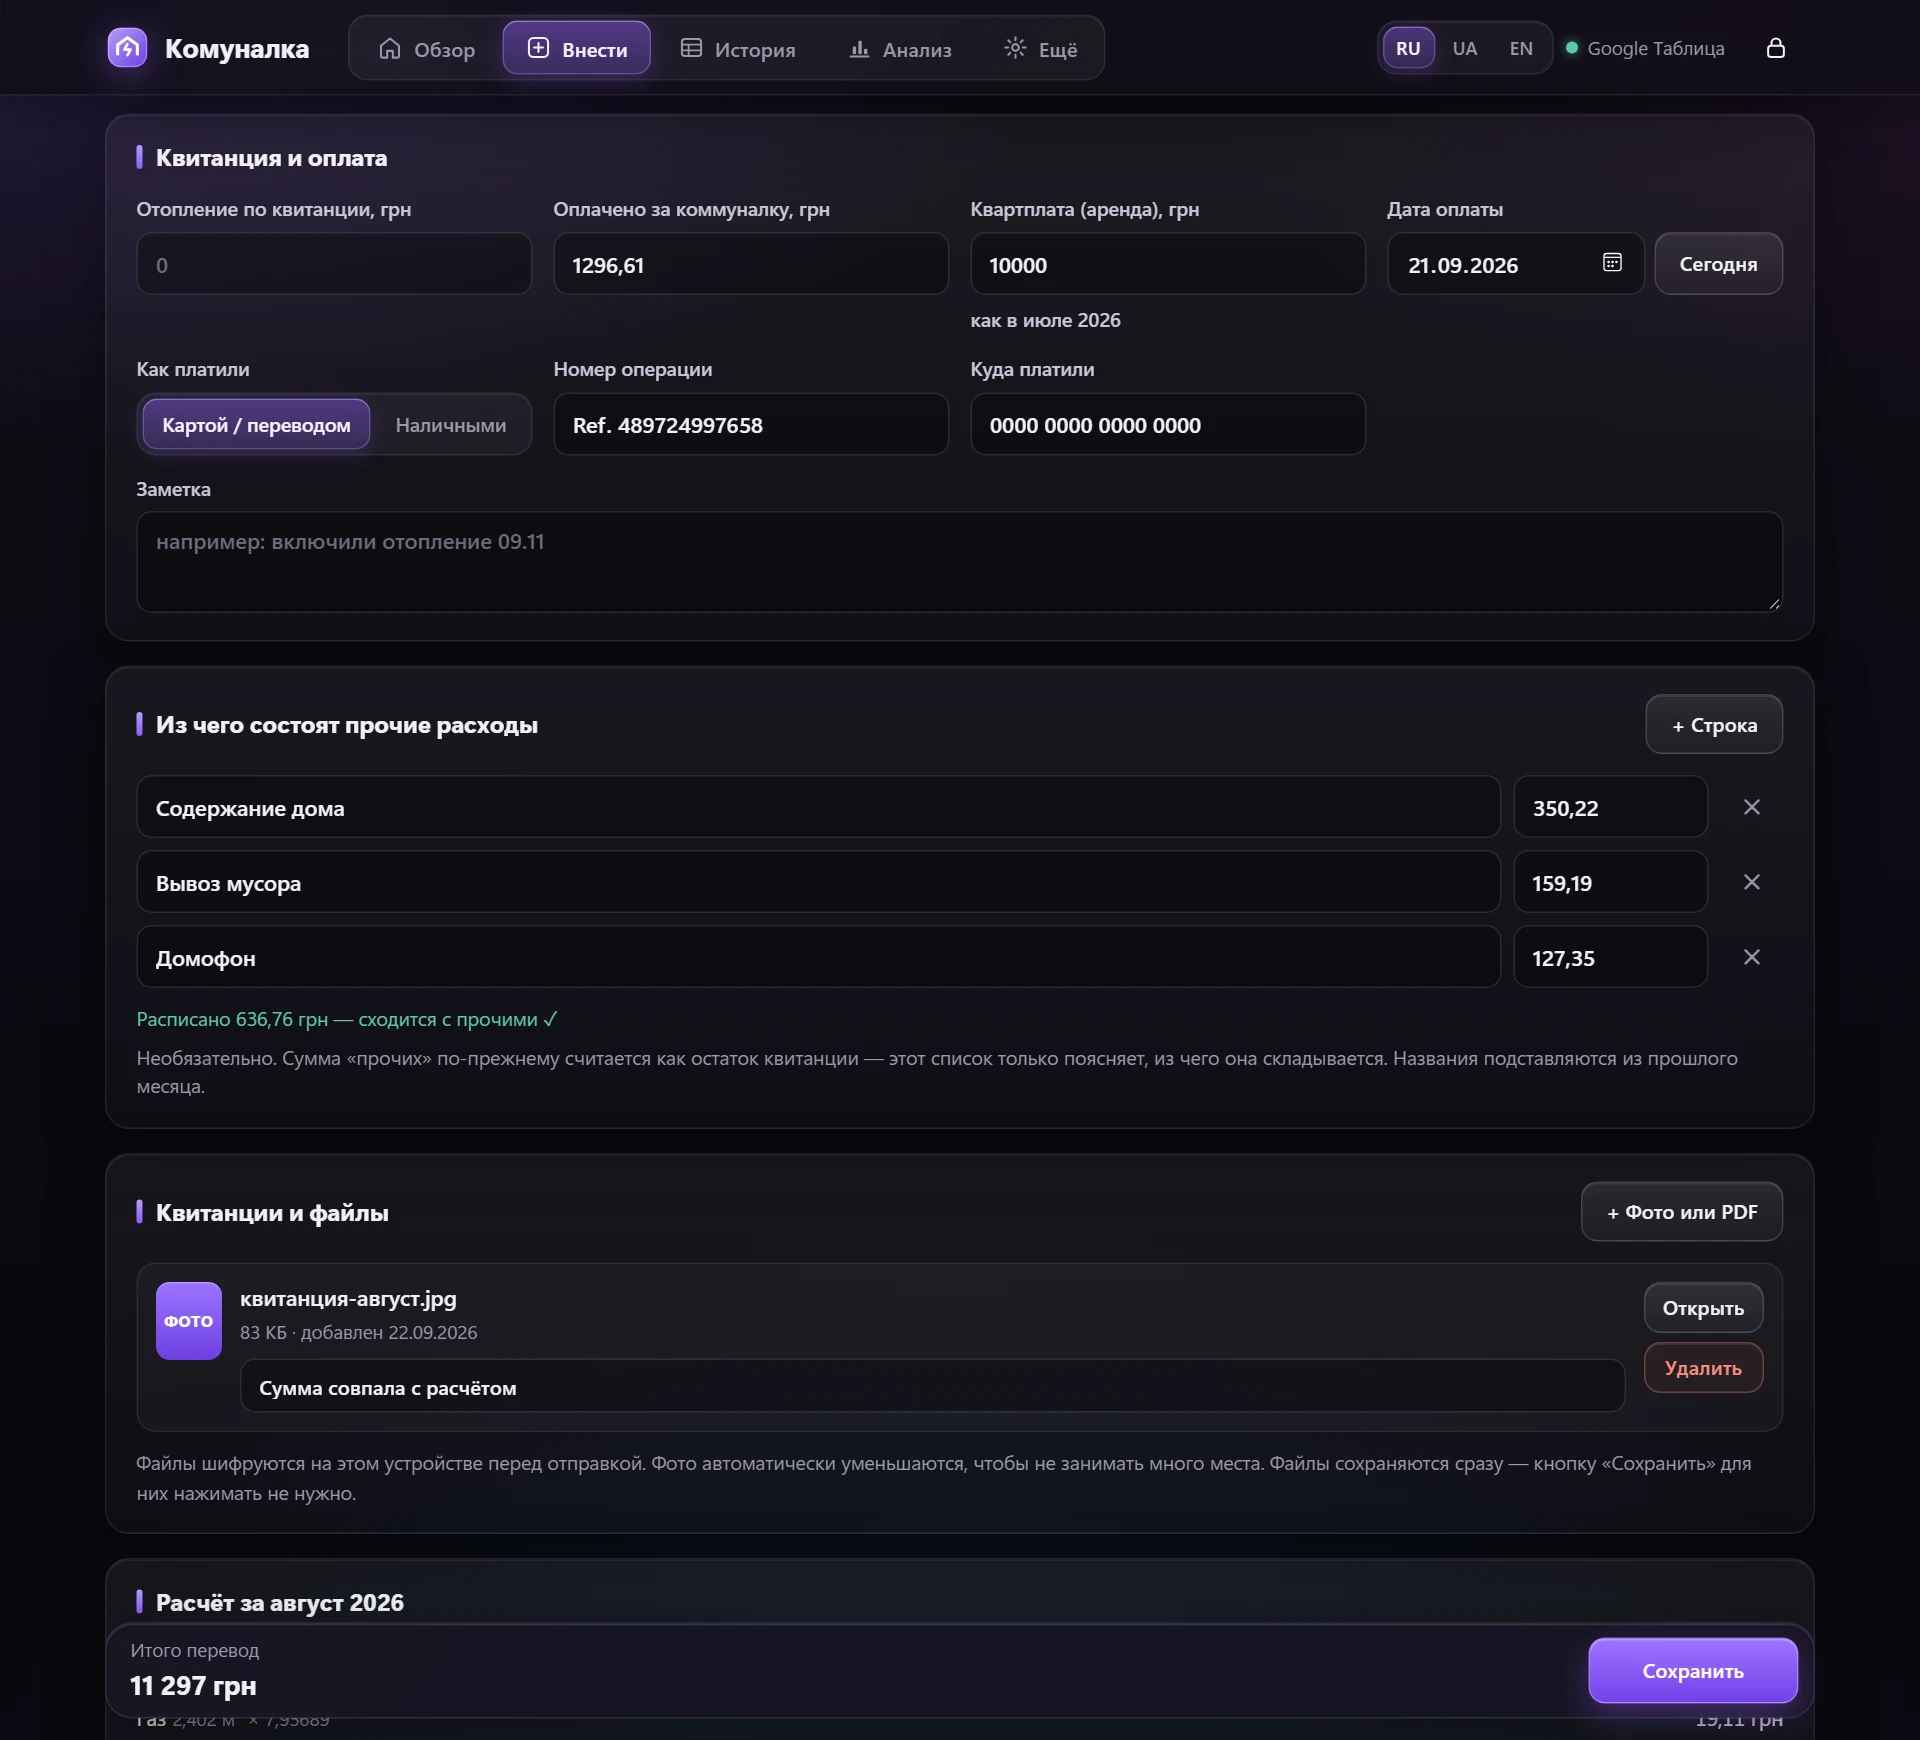
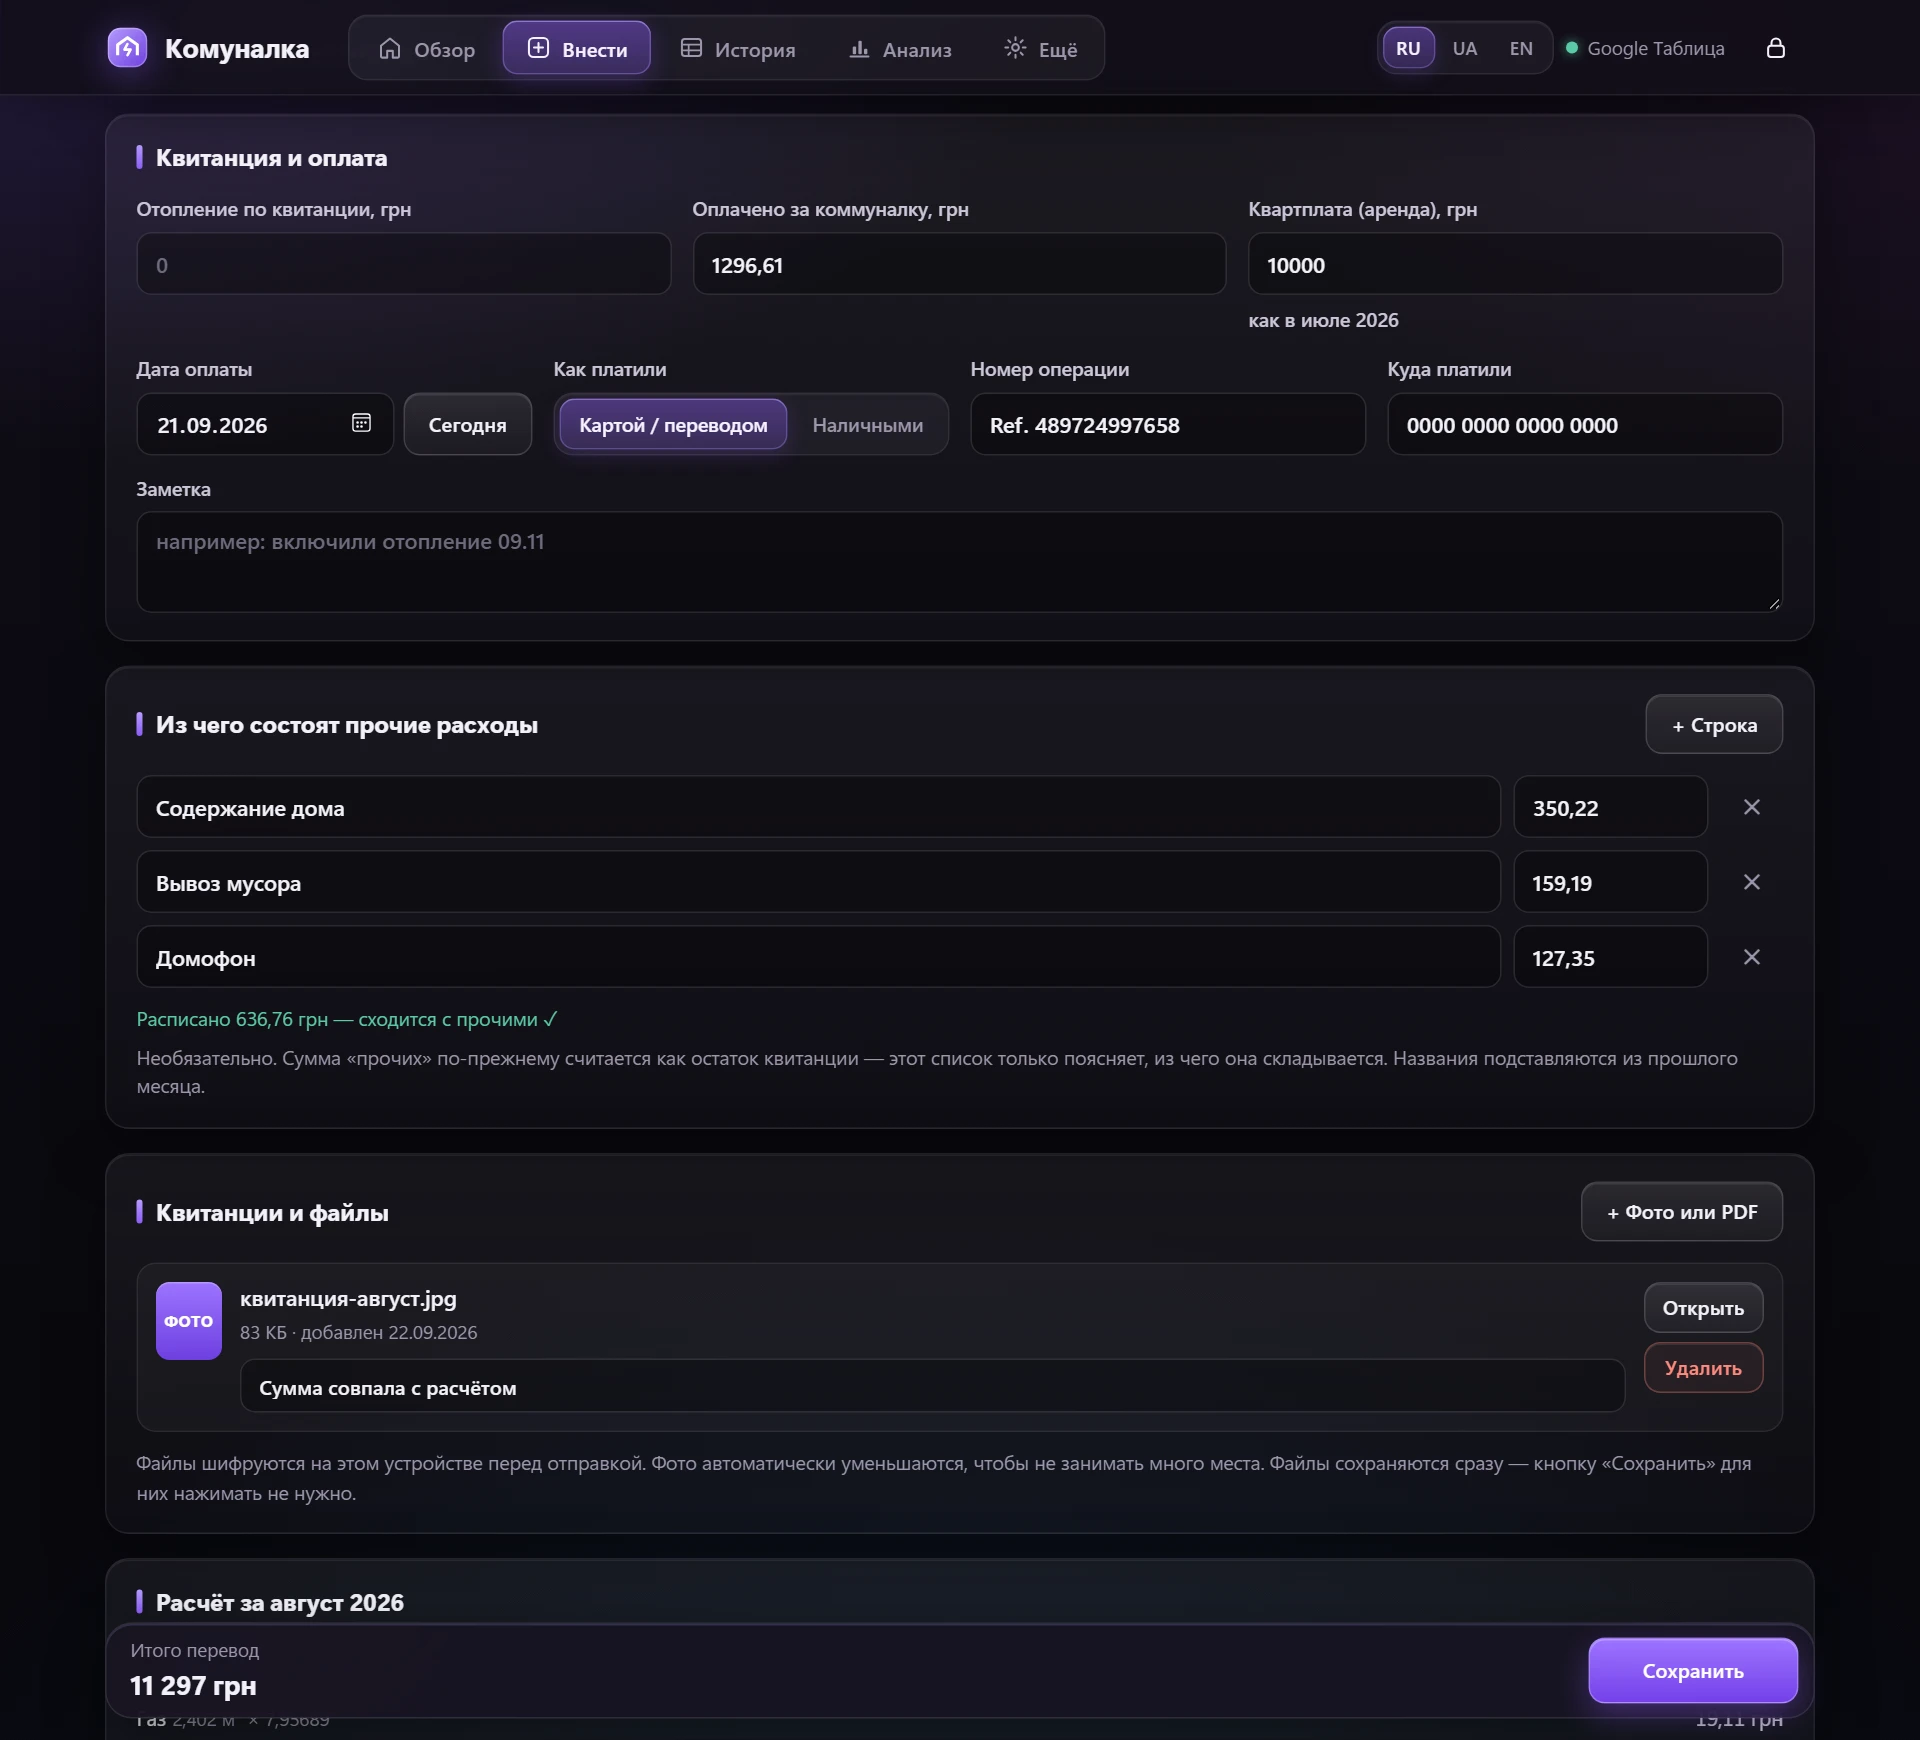
Entry form: payment date moved next to the payment method
First row: heating, paid, rent. Second row: payment date, paid by,
transaction number, paid to.

diff --git a/Index.html b/Index.html
@@ -2062,6 +2062,8 @@ function renderEntry(opts = {}) {
         <label class="field"><span>${T('Оплачено за коммуналку, {0}', cur())}</span><input class="input" name="paid" inputmode="decimal" value="${toInput(num(rec.paid))}" placeholder="${T('сумма перевода без квартплаты')}"></label>
         <label class="field"><span>${T('Квартплата (аренда), {0}', cur())}</span><input class="input" name="rent" inputmode="decimal" value="${toInput(num(rec.rent))}">
           <span class="fhint" id="h-rent"></span></label>
+      </div>
+      <div class="form-grid" style="margin-top:14px">
         <label class="field"><span>${T('Дата оплаты')}</span>
           <span style="display:flex;gap:6px"><input class="input" type="date" name="payDate" value="${esc(payDate)}"><button class="btn" type="button" id="e-today">${T('Сегодня')}</button></span></label>
         <div class="field"><span id="e-pm-l">${T('Как платили')}</span>
